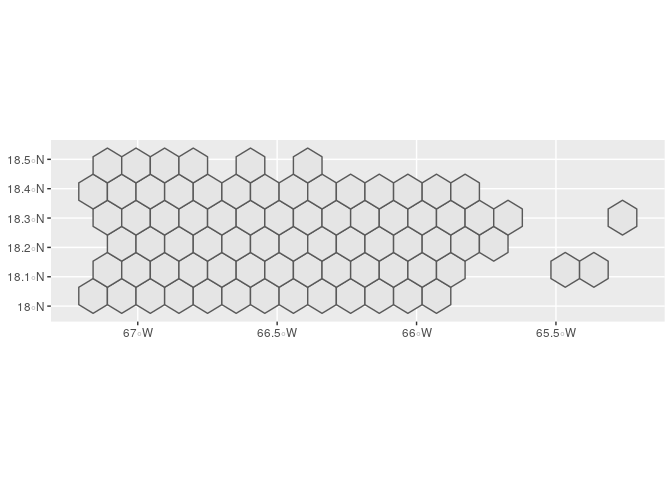
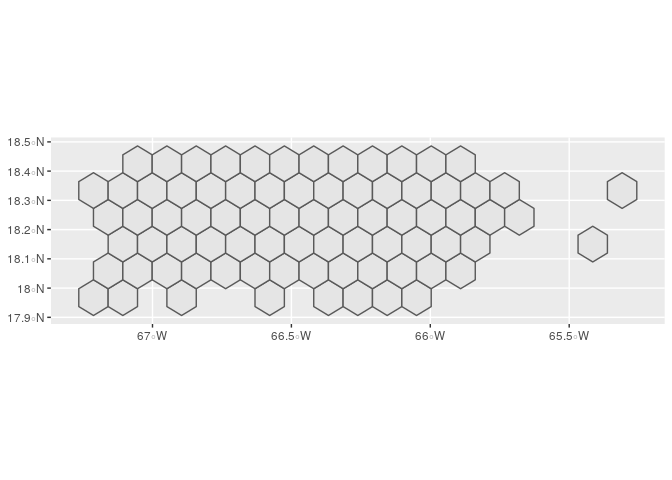
Fixing Travis deps

diff --git a/README.md b/README.md
@@ -37,7 +37,7 @@ library(ggplot2)
 
 json_url <- 'https://raw.githubusercontent.com/ian-flores/Hurricane_Maria_Mortality_Analysis/master/analysis/data/pueblos.json'
 
-grid <- get_grid(json_url)
+grid <- get_grid(json_url, seed = 40)
 #> Reading layer `pueblos' from data source `https://raw.githubusercontent.com/ian-flores/Hurricane_Maria_Mortality_Analysis/master/analysis/data/pueblos.json' using driver `GeoJSON'
 #> Simple feature collection with 78 features and 3 fields
 #> geometry type:  POLYGON
@@ -51,27 +51,3 @@ ggplot(grid) +
 ```
 
 <img src="man/figures/README-example-1.png" width="100%" />
-
-What is special about using `README.Rmd` instead of just `README.md`?
-You can include R chunks like so:
-
-``` r
-summary(cars)
-#>      speed           dist       
-#>  Min.   : 4.0   Min.   :  2.00  
-#>  1st Qu.:12.0   1st Qu.: 26.00  
-#>  Median :15.0   Median : 36.00  
-#>  Mean   :15.4   Mean   : 42.98  
-#>  3rd Qu.:19.0   3rd Qu.: 56.00  
-#>  Max.   :25.0   Max.   :120.00
-```
-
-You’ll still need to render `README.Rmd` regularly, to keep `README.md`
-up-to-date.
-
-You can also embed plots, for example:
-
-<img src="man/figures/README-pressure-1.png" width="100%" />
-
-In that case, don’t forget to commit and push the resulting figure
-files, so they display on GitHub\!
